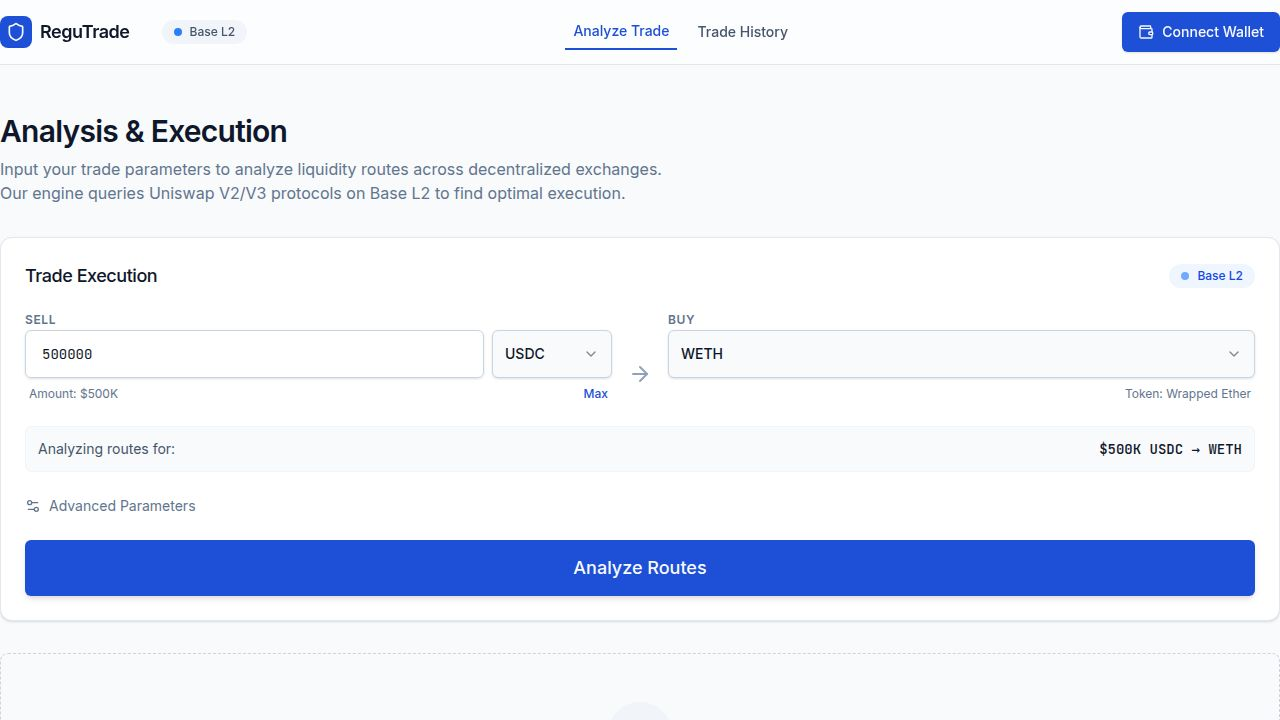
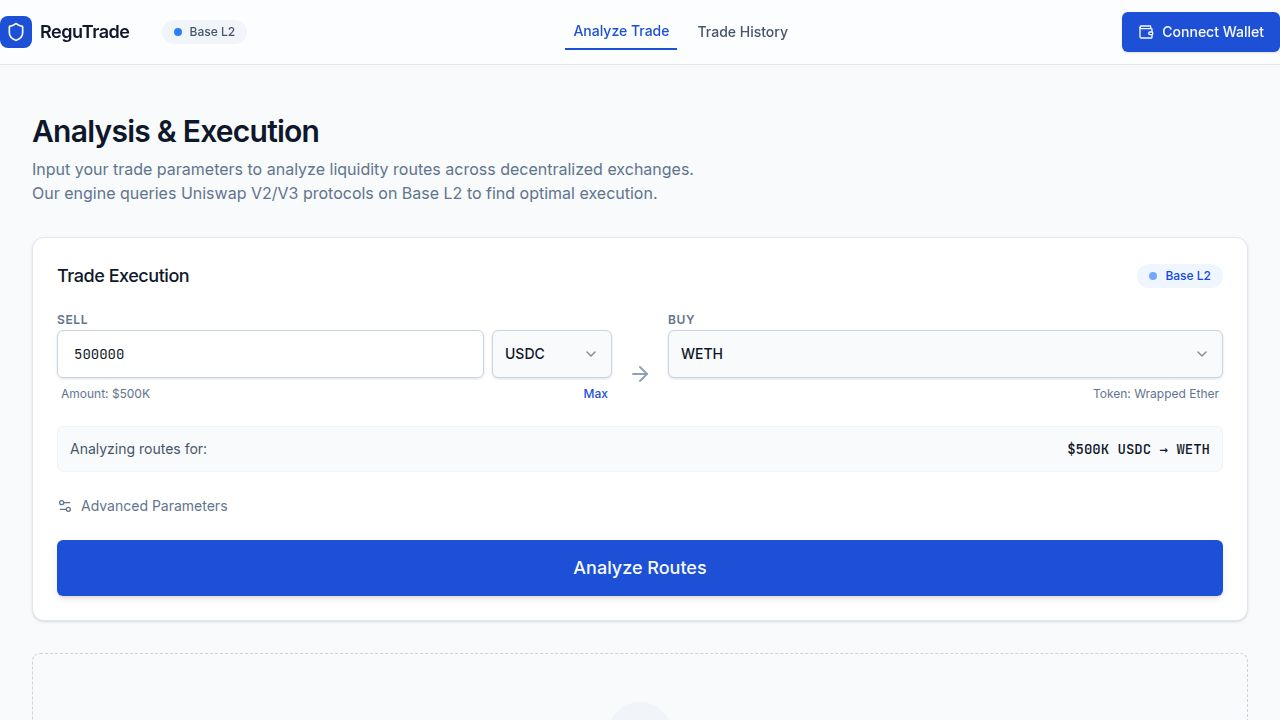
Center the application content on larger screens
Add `mx-auto` and responsive padding classes to the main container in `Layout.tsx` to ensure horizontal centering and consistent spacing across different screen sizes.

Replit-Commit-Author: Agent
Replit-Commit-Session-Id: d33a0c0c-a9b2-4ca4-9824-e56b1349594d
Replit-Commit-Checkpoint-Type: intermediate_checkpoint
Replit-Commit-Event-Id: b5874081-f724-4f3f-ba34-1dd74bb12d00
Replit-Commit-Screenshot-Url: https://storage.googleapis.com/screenshot-production-us-central1/54707ade-a78d-47e6-98b0-d010341376dd/d33a0c0c-a9b2-4ca4-9824-e56b1349594d/YJL2enR
Replit-Helium-Checkpoint-Created: true

diff --git a/client/src/components/layout/Layout.tsx b/client/src/components/layout/Layout.tsx
@@ -9,7 +9,7 @@ export default function Layout({ children }: LayoutProps) {
   return (
     <div className="min-h-screen bg-slate-50 font-sans text-slate-900 selection:bg-blue-100">
       <Navbar />
-      <main className="container py-8 md:py-12">
+      <main className="container mx-auto px-4 sm:px-6 lg:px-8 py-8 md:py-12 max-w-7xl">
         {children}
       </main>
     </div>
